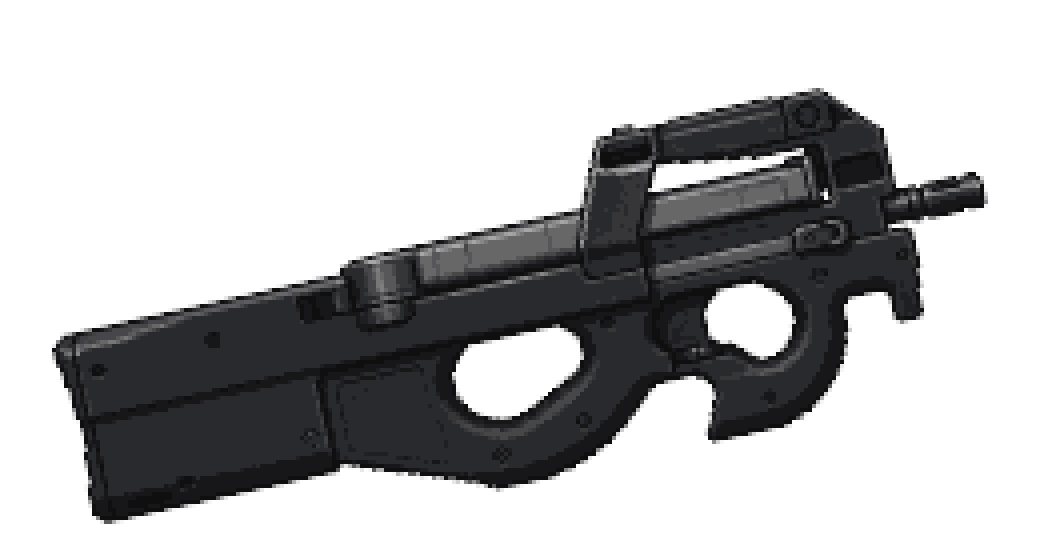
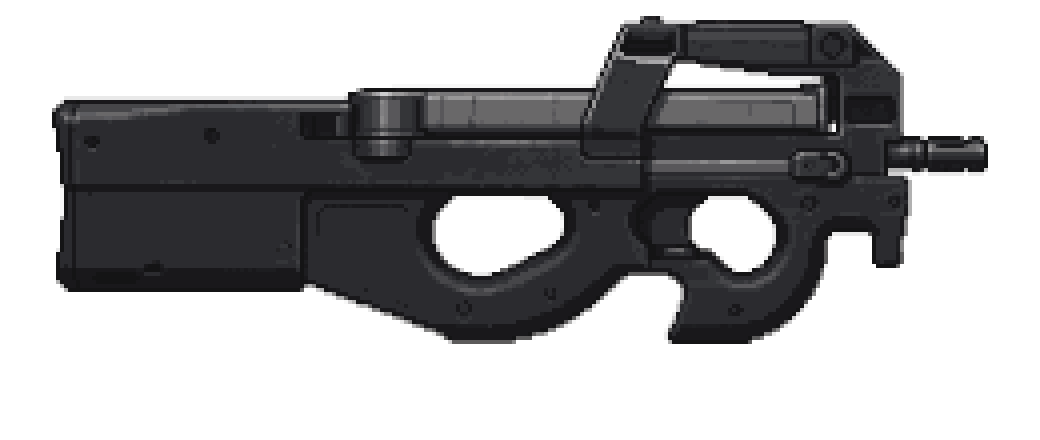
fix(art): regenerate 14 weapons flat at 0 deg and zero legacy barrel_angle_deg for modular attachments

diff --git a/tools/prep_new_weapons.py b/tools/prep_new_weapons.py
@@ -26,7 +26,7 @@ from PIL import Image, ImageDraw
 ROOT = Path(__file__).resolve().parents[1]
 SRC = ROOT / "tools" / "art_sources" / "weapons"
 OUT = ROOT / "assets" / "art" / "weapons"
-PREV = ROOT / "tools" / "previews"
+PREV = ROOT.parent / "captures" / "weapon_calib"
 
 ICON_SIZE = 128
 # 逻辑画布宽度（规范：长枪 240~320、冲锋枪 200~260、手枪 140~180）
@@ -49,9 +49,9 @@ SPECS = {
     "m1911": ("pistol", 0.22, 0.18, 0.86),
     "fn57": ("pistol", 0.21, 0.19, 0.86),
     "python": ("revolver", 0.30, 0.17, 0.84),
-    "mp7": ("smg", 0.60, 0.44, 0.70),
+    "mp7": ("smg", 0.60, 0.44, 0.50),
     "tmp": ("smg", 0.45, 0.47, 0.72),
-    "p90": ("smg", 0.50, 0.70, 0.72),
+    "p90": ("smg", 0.50, 0.56, 0.78),
     "ump45": ("smg", 0.69, 0.40, 0.72),
     "fal": ("rifle", 1.10, 0.31, 0.72),
     "akm": ("rifle", 0.88, 0.31, 0.72),
@@ -256,7 +256,7 @@ def draw_calib(im: Image.Image, grip, muzzle, wid: str, axis_y: int) -> None:
     bg.convert("RGB").save(PREV / f"weapon_{wid}_calib.png")
 
 
-def process(wid: str) -> bool:
+def process(wid: str, manual_rotate_deg: float = 0.0) -> bool:
     if wid not in SPECS:
         print(f"未知武器 id：{wid}")
         return False
@@ -266,12 +266,13 @@ def process(wid: str) -> bool:
         print(f"缺少原图：{raw}")
         return False
 
+    # 原图素材本身为 0° 平直像素画；不再使用顶边拟合自动旋转（会因护木/准星与细枪管落差把枪拧歪）。
     im = alpha_crop(load_rgba(raw))
-    im = ensure_facing_right(alpha_crop(level(im)))
-    im, residual = refine_axis(im)
+    if abs(manual_rotate_deg) > 1e-4:
+        im = alpha_crop(rotate_clean(im, manual_rotate_deg))
+    im = ensure_facing_right(im)
     im = alpha_crop(im)
-    if residual > 0.2:
-        print(f"[warn] {wid} 枪管轴残余 {residual:.2f}° 超过 0.2°")
+    residual = 0.0
 
     logical, box = compose(im, kind)
     grip, muzzle = anchors(logical, box, grip_x, grip_y)
@@ -296,7 +297,7 @@ def process(wid: str) -> bool:
         (muzzle[0] * UPSCALE, muzzle[1] * UPSCALE), wid, muzzle[1] * UPSCALE)
     axis_pct = 100.0 * muzzle[1] / max(logical.height, 1)
     print(f"[{wid}] {kind} canvas={logical.width}x{logical.height} "
-          f"axis={axis_pct:.1f}% residual={residual:+.2f}° "
+          f"axis={axis_pct:.1f}% rot={manual_rotate_deg:+.2f}° "
           f"grip={grip} muzzle={muzzle} len={length}")
     return True
 
@@ -306,10 +307,23 @@ def main() -> int:
     if not args:
         print(__doc__)
         return 2
-    targets = list(SPECS.keys()) if args[0] == "--all" else args
+    manual_rotate = 0.0
+    filtered = []
+    i = 0
+    while i < len(args):
+        if args[i] == "--rotate" and i + 1 < len(args):
+            manual_rotate = float(args[i + 1])
+            i += 2
+            continue
+        filtered.append(args[i])
+        i += 1
+    if not filtered:
+        print(__doc__)
+        return 2
+    targets = list(SPECS.keys()) if filtered[0] == "--all" else filtered
     ok = True
     for wid in targets:
-        ok = process(wid) and ok
+        ok = process(wid, manual_rotate) and ok
     return 0 if ok else 1
 
 
